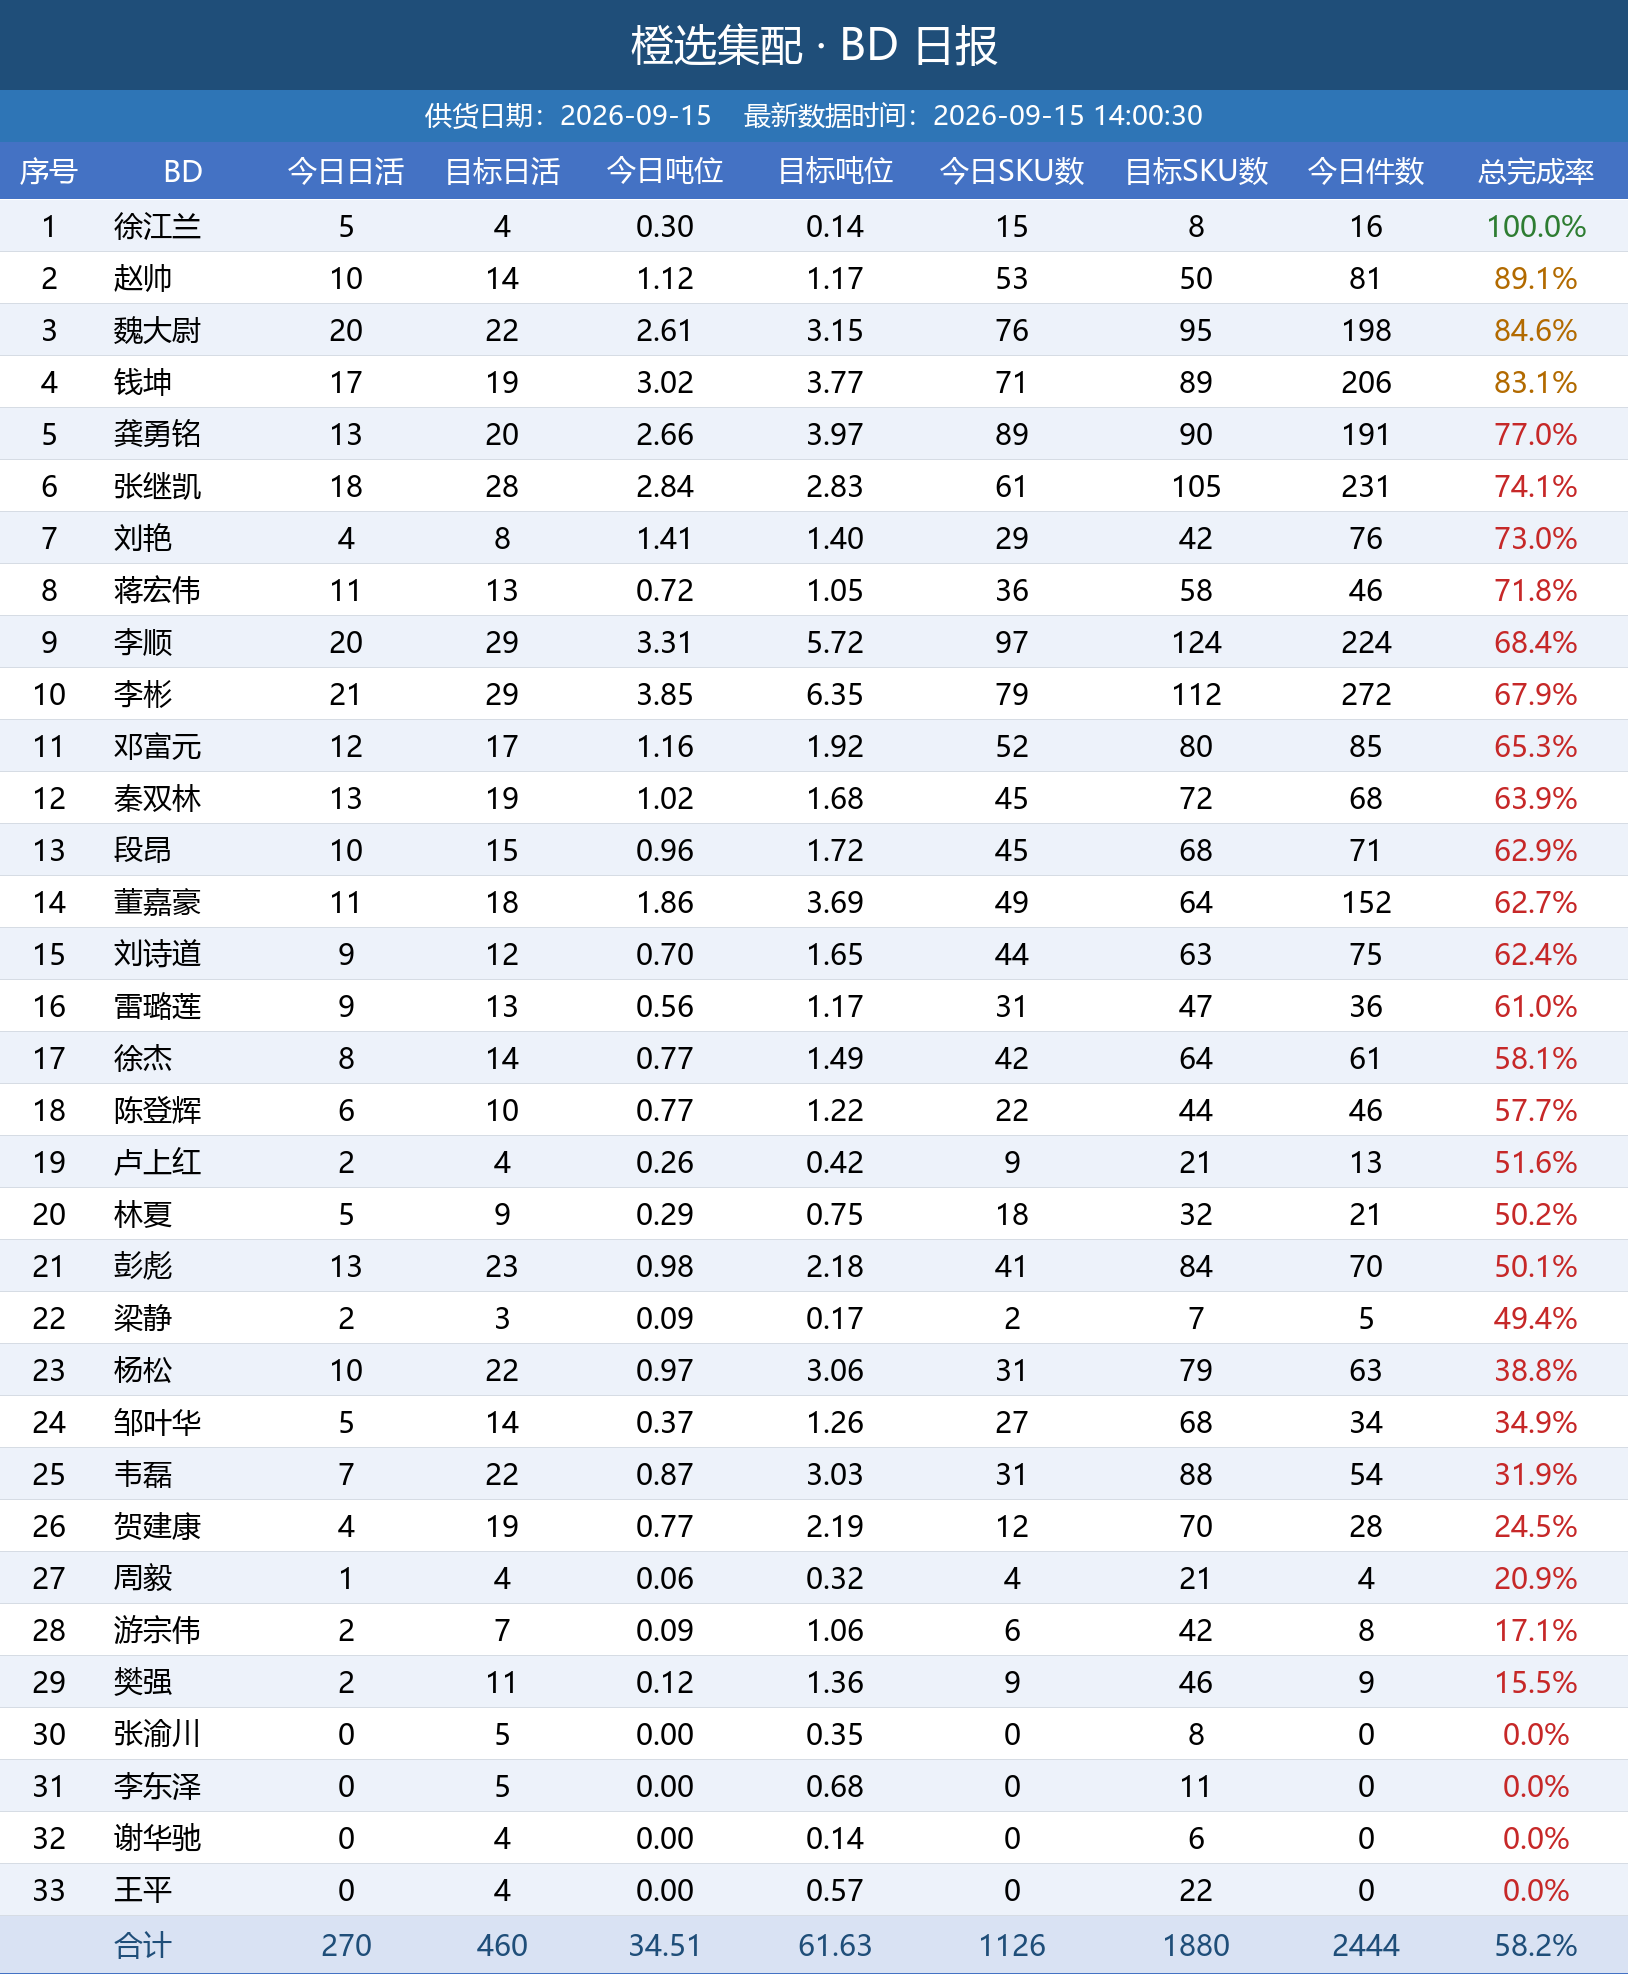
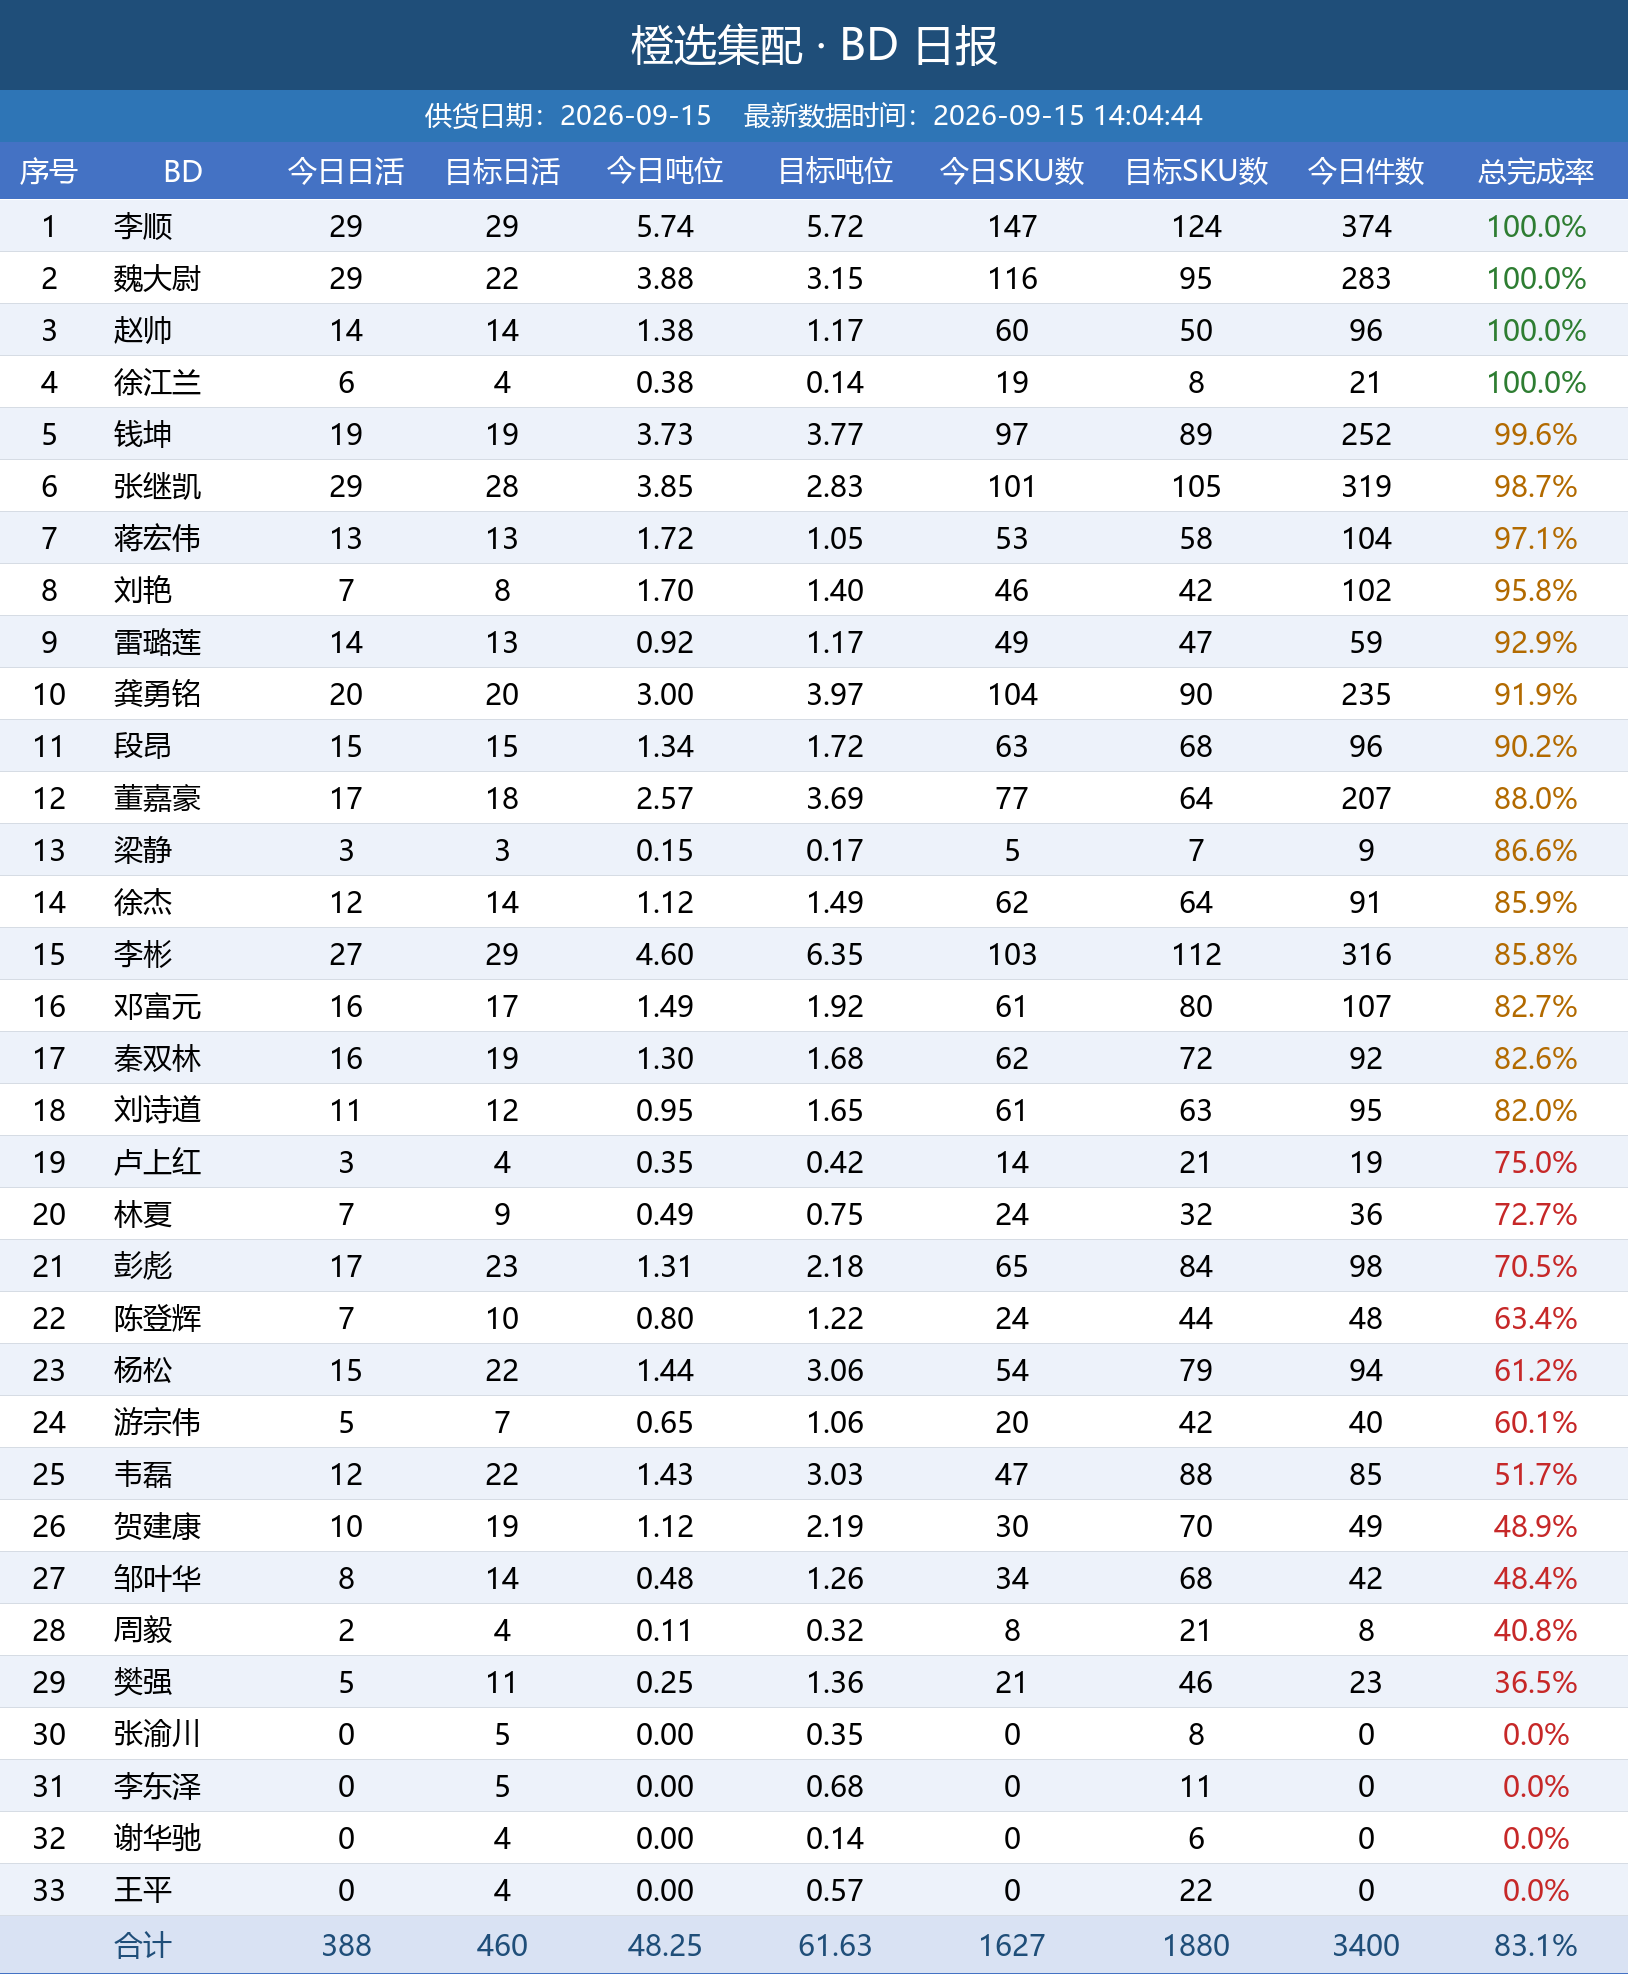
自动更新日报图片

diff --git a/index.html b/index.html
@@ -11,7 +11,7 @@ img { max-width: 100%; border: 1px solid #e5e5e5; margin-bottom: 24px; display: 
 </style>
 </head>
 <body>
-<h1>橙选集配日报图片（20260915_140035）</h1>
+<h1>橙选集配日报图片（20260915_140449）</h1>
 <img src="bd_latest.png" alt="BD 日报">
 <img src="wh_latest.png" alt="城市仓日报">
 <img src="zs_latest.png" alt="招商日报">
